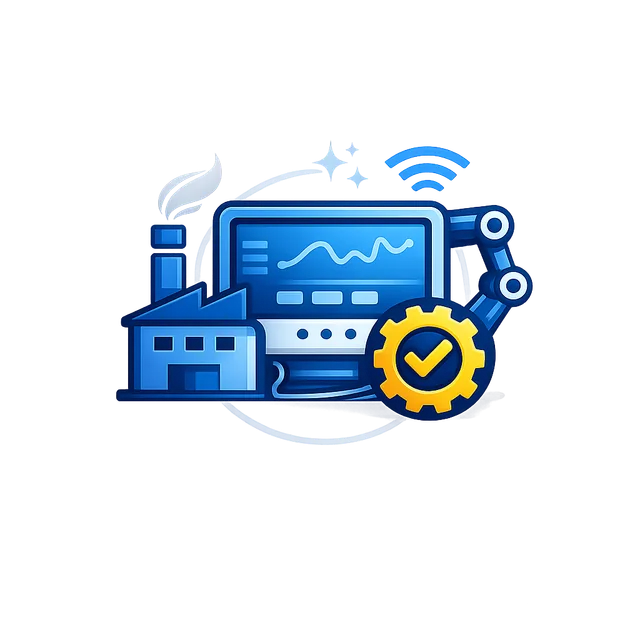
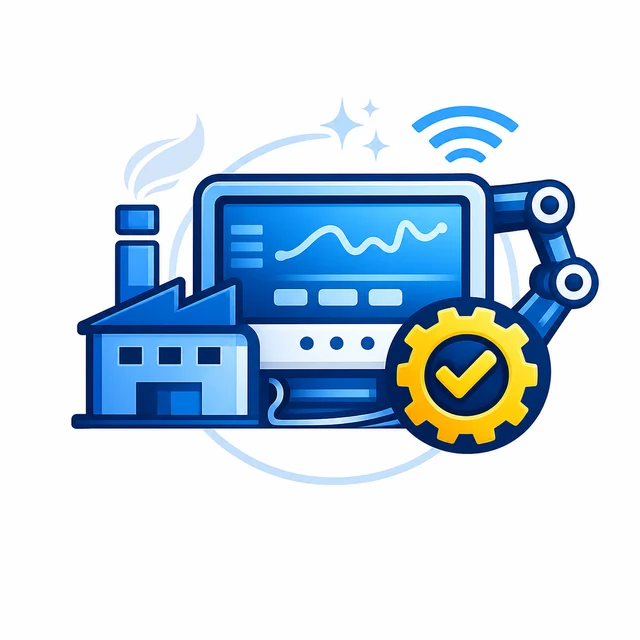
Refine business application cards

Changed region(s): [[0.0938, 0.1562, 0.9375, 0.7812]]

diff --git a/public/business-embedded.html b/public/business-embedded.html
@@ -295,27 +295,27 @@
     <p class="sec-sub">자동차부터 산업 장비와 IoT 엣지까지, 제품 환경에 맞는 임베디드 소프트웨어를 제공합니다.</p></div>
     <div class="dep-grid ax-app-grid reveal" data-d="1">
       <article class="dep-card ax-app-card">
-        <div class="ax-app-icon"><img src="assets/img/business/applications/embedded-automotive.webp" alt="" loading="lazy" width="640" height="640"></div>
+        <div class="ax-app-icon"><img src="assets/img/business/applications/embedded-automotive-white.webp" alt="" loading="lazy" width="640" height="640"></div>
         <h3>Automotive</h3>
         <p><span>차량 내 다양한 시스템과 디바이스를 위한</span><span>Embedded Software 및 차량 플랫폼 제공</span></p>
       </article>
       <article class="dep-card ax-app-card">
-        <div class="ax-app-icon"><img src="assets/img/business/applications/embedded-ev-charging.webp" alt="" loading="lazy" width="640" height="640"></div>
+        <div class="ax-app-icon"><img src="assets/img/business/applications/embedded-ev-charging-white.webp" alt="" loading="lazy" width="640" height="640"></div>
         <h3>EV &amp; Charging</h3>
         <p><span>전기차와 충전기의 연결·<wbr>제어·<wbr>운영을 위한</span><span>Embedded Software 제공</span></p>
       </article>
       <article class="dep-card ax-app-card">
-        <div class="ax-app-icon"><img src="assets/img/business/applications/embedded-robotics-mobility.webp" alt="" loading="lazy" width="640" height="640"></div>
+        <div class="ax-app-icon"><img src="assets/img/business/applications/embedded-robotics-mobility-white.webp" alt="" loading="lazy" width="640" height="640"></div>
         <h3>Robotics &amp; Mobility</h3>
         <p><span>로봇과 이동형 장비의 센서·<wbr>제어 시스템을 연결하여</span><span>안정적인 동작 및 서비스 구현 지원</span></p>
       </article>
       <article class="dep-card ax-app-card">
-        <div class="ax-app-icon"><img src="assets/img/business/applications/embedded-industrial-device.webp" alt="" loading="lazy" width="640" height="640"></div>
+        <div class="ax-app-icon"><img src="assets/img/business/applications/embedded-industrial-device-white.webp" alt="" loading="lazy" width="640" height="640"></div>
         <h3>Industrial Device</h3>
         <p><span>산업 현장의 장비와 디바이스에 필요한</span><span>제어·<wbr>통신·<wbr>인터페이스 소프트웨어 제공</span></p>
       </article>
       <article class="dep-card ax-app-card">
-        <div class="ax-app-icon"><img src="assets/img/business/applications/embedded-iot-edge.webp" alt="" loading="lazy" width="640" height="640"></div>
+        <div class="ax-app-icon"><img src="assets/img/business/applications/embedded-iot-edge-white.webp" alt="" loading="lazy" width="640" height="640"></div>
         <h3>IoT &amp; Edge</h3>
         <p><span>센서와 장비 데이터를 실시간으로 수집하고 연결하는</span><span>Edge 및 IoT 소프트웨어 제공</span></p>
       </article>

diff --git a/public/business-ax.html b/public/business-ax.html
@@ -247,27 +247,27 @@
     <p class="sec-sub">데이터와 AI를 산업과 업무 현장에 연결해 운영 방식의 실질적인 변화를 지원합니다.</p></div>
     <div class="dep-grid ax-app-grid reveal" data-d="1">
       <article class="dep-card ax-app-card">
-        <div class="ax-app-icon"><img src="assets/img/business/applications/manufacturing.webp" alt="" loading="lazy" width="640" height="640"></div>
+        <div class="ax-app-icon"><img src="assets/img/business/applications/manufacturing-white.webp" alt="" loading="lazy" width="640" height="640"></div>
         <h3>Manufacturing</h3>
         <p><span>생산·<wbr>설비·<wbr>품질 데이터를 AI로 분석하여</span><span>공정 최적화 및 품질 향상 자동화</span></p>
       </article>
       <article class="dep-card ax-app-card">
-        <div class="ax-app-icon"><img src="assets/img/business/applications/enterprise.webp" alt="" loading="lazy" width="640" height="640"></div>
+        <div class="ax-app-icon"><img src="assets/img/business/applications/enterprise-white.webp" alt="" loading="lazy" width="640" height="640"></div>
         <h3>Enterprise</h3>
         <p><span>AI Agent와 데이터 분석을 활용해 반복 업무를 자동화하고</span><span>업무 지식 활용과 의사결정 지원</span></p>
       </article>
       <article class="dep-card ax-app-card">
-        <div class="ax-app-icon"><img src="assets/img/business/applications/mobility.webp" alt="" loading="lazy" width="640" height="640"></div>
+        <div class="ax-app-icon"><img src="assets/img/business/applications/mobility-white.webp" alt="" loading="lazy" width="640" height="640"></div>
         <h3>Mobility</h3>
         <p><span>차량과 교통 데이터를 활용해</span><span>안전하고 효율적인 이동과 운영 환경 지원</span></p>
       </article>
       <article class="dep-card ax-app-card">
-        <div class="ax-app-icon"><img src="assets/img/business/applications/energy.webp" alt="" loading="lazy" width="640" height="640"></div>
+        <div class="ax-app-icon"><img src="assets/img/business/applications/energy-white.webp" alt="" loading="lazy" width="640" height="640"></div>
         <h3>Energy</h3>
         <p><span>에너지 데이터를 분석하고 수요와 사용량을 최적화하여</span><span>효율적인 에너지 운영 환경 적용</span></p>
       </article>
       <article class="dep-card ax-app-card">
-        <div class="ax-app-icon"><img src="assets/img/business/applications/public.webp" alt="" loading="lazy" width="640" height="640"></div>
+        <div class="ax-app-icon"><img src="assets/img/business/applications/public-white.webp" alt="" loading="lazy" width="640" height="640"></div>
         <h3>Public</h3>
         <p><span>공공 데이터와 AI를 활용해</span><span>민원·<wbr>행정·<wbr>고객서비스의 업무자동화 지원</span></p>
       </article>

diff --git a/public/assets/site2.css b/public/assets/site2.css
@@ -1584,36 +1584,39 @@ body.lb-open{overflow:hidden}
 .stack-prods span small,.prod-card .sub,.ref-note,.cert-note{font-size:14px;line-height:1.55}
 .loc-note{font-size:15px;line-height:1.6}
 
-/* AX applications */
-.ax-app-grid{align-items:stretch}
+/* Business applications */
+.ax-app-grid{align-items:stretch;gap:16px;margin-top:32px}
 .ax-app-card{
-  min-height:350px;
+  min-height:300px;
   display:flex;
   flex-direction:column;
   align-items:center;
   justify-content:flex-start;
-  padding:28px 24px;
+  padding:22px 20px 24px;
   text-align:center;
   overflow:hidden;
 }
 .ax-app-icon{
-  width:150px;
-  height:150px;
+  width:122px;
+  height:122px;
   flex:0 0 auto;
-  margin-bottom:22px;
-  border:1px solid rgba(38,128,222,.24);
-  border-radius:26px;
+  margin-bottom:17px;
+  border:1px solid rgba(38,128,222,.16);
+  border-radius:22px;
   overflow:hidden;
-  background:#050b13;
-  box-shadow:0 14px 34px rgba(7,19,35,.16);
+  background:#fff;
+  box-shadow:0 9px 24px rgba(7,19,35,.08);
 }
 .ax-app-icon img{width:100%;height:100%;display:block;object-fit:cover}
-.ax-app-card h3{margin-top:0;font-size:22px;letter-spacing:-.02em}
-.ax-app-card p{margin-top:12px;font-size:15px;line-height:1.65;text-wrap:balance}
+.ax-app-card h3{margin-top:0;font-size:20px;letter-spacing:-.02em;line-height:1.3}
+.ax-app-card p{margin-top:9px;font-size:14.5px;line-height:1.56;text-wrap:balance}
 .ax-app-card p span{display:block}
 @media(max-width:599px){
-  .ax-app-card{min-height:0;padding:24px 20px}
-  .ax-app-icon{width:132px;height:132px;margin-bottom:19px;border-radius:22px}
+  .ax-app-grid{gap:14px;margin-top:28px}
+  .ax-app-card{min-height:0;padding:20px 18px 22px}
+  .ax-app-icon{width:108px;height:108px;margin-bottom:15px;border-radius:19px}
+  .ax-app-card h3{font-size:19px}
+  .ax-app-card p{margin-top:8px;font-size:14px;line-height:1.55}
 }
 
 
